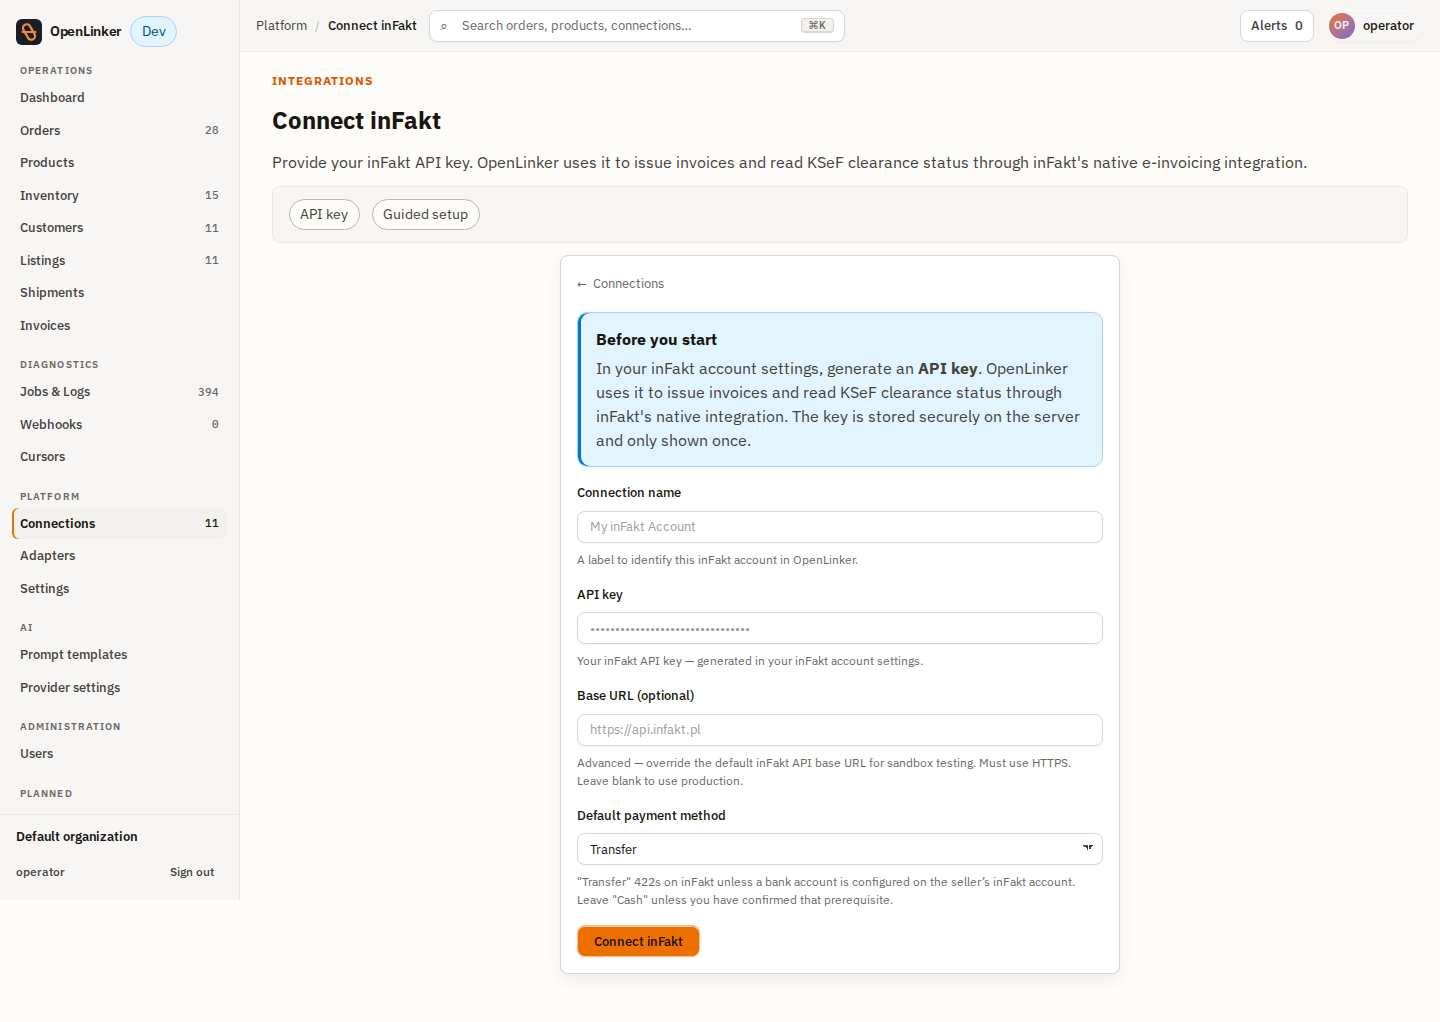
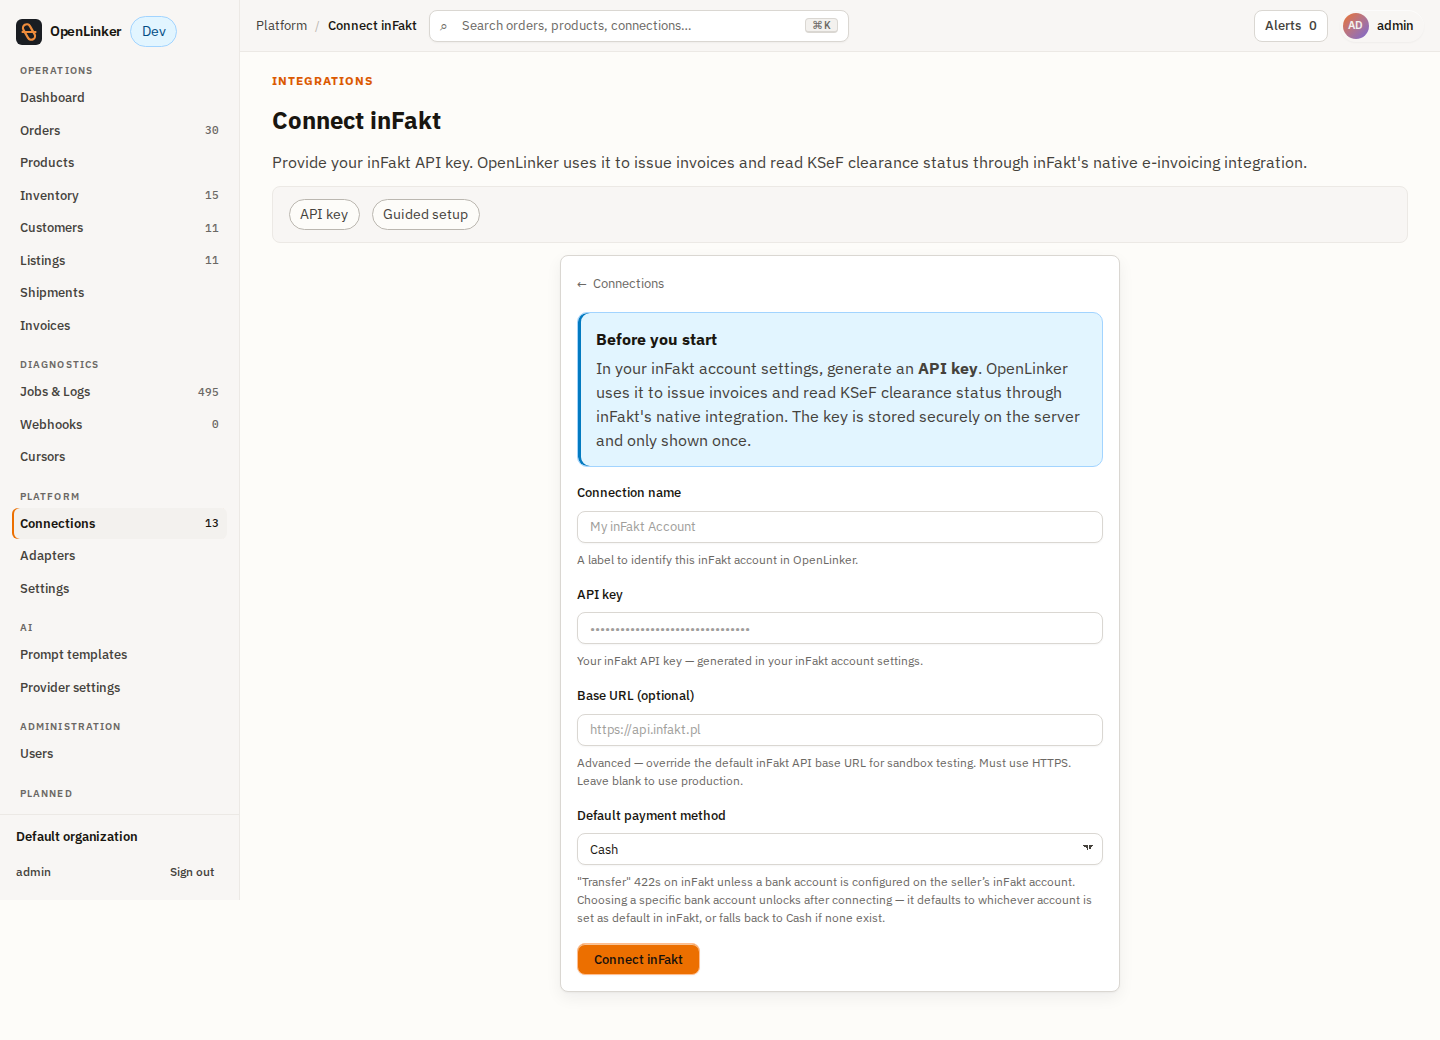
docs(infakt): payment method, bank-account picker, PDF download in setup guide
Live-E2E-verified against the inFakt sandbox (2026-07-03):
- section 1: Default payment method wizard field + Transfer bank-account
  behaviour (live picker on the Edit form, eager persist, inFakt default
  sync) with fresh wizard + edit-form screenshots
- section 3: Download the invoice PDF step (rendered PDF via
  RegulatoryDocumentReader, #1321)
- corrections: issuance-time line snapshot note (#1297)
- README: BankAccountsReader / BankAccountDefaultSetter /
  RegulatoryDocumentReader notes + implementation details
- capability-panel screenshot (post-#1320)

diff --git a/docs/integrations/infakt/setup-guide.md b/docs/integrations/infakt/setup-guide.md
@@ -20,6 +20,12 @@ full rationale behind that design.
 | `Invoicing` (`issueInvoice` / `getInvoice` / `upsertCustomer` / `getSupportedDocumentTypes`) | ✅ | Document types: `invoice`, `corrected`, `proforma`, `prepayment`. |
 | `RegulatoryStatusReader` (`getClearanceStatus`) | ✅ | Reads `ksef_data.status` off the stored invoice. **Not** `RegulatoryTransmitter` — inFakt submits to KSeF itself; OL has no submit primitive to call. |
 | `CorrectionIssuer` (`issueCorrection`) | ✅ | Issues a `corrective` invoice against `POST /invoices.json` with a before/after line-pair payload. |
+| `BankAccountsReader` (`listBankAccounts`) + `BankAccountDefaultSetter` (`setDefaultBankAccount`) | ✅ | Backs the live bank-account picker for `Transfer` invoices - accounts are fetched from `GET /bank_accounts.json`, and the picked account is synced back as the inFakt default. |
+| `RegulatoryDocumentReader` (`getRegulatoryDocument`, kind `rendered`) | ✅ | Fetches the inFakt-rendered invoice PDF - powers the **Download PDF** button on the invoice detail page. |
+
+The connection detail page shows the enabled capability roles for the connection:
+
+![inFakt capability panel](../../../libs/integrations/infakt/docs/assets/19-infakt-capability-panel.png)
 
 - **adapterKey:** `infakt.accounting.v1`
 - **platformType:** `infakt`
@@ -56,10 +62,19 @@ The guided wizard (`/connections/new/infakt`) collects:
 | Connection name | ✅ | A label to identify this inFakt account in OpenLinker. |
 | API key | ✅ | The credential from [Prerequisites](#prerequisites). Stored encrypted server-side; never echoed back to the browser after creation. |
 | Base URL (optional) | ❌ | Advanced override for sandbox testing. Must use HTTPS. Leave blank to use inFakt's production API. |
+| Default payment method | ❌ | `Cash` or `Transfer` - the `payment_method` stamped on every invoice issued through this connection. Leave it untouched to fall back to `Cash`. `Transfer` is rejected (422) by inFakt unless a bank account is configured on the seller's inFakt account. |
 
 ![inFakt wizard, empty](../../../libs/integrations/infakt/docs/assets/01-infakt-wizard-empty.png)
 
 ![inFakt wizard, filled in](../../../libs/integrations/infakt/docs/assets/02-infakt-wizard-filled.png)
+
+When **Transfer** is selected, the connection also carries a **bank account for
+Transfer invoices**. The picker for a specific account unlocks once the connection
+exists (the API key is needed to query inFakt): OL fetches the account list live from
+inFakt and defaults to whichever account is marked default there, falling back to
+`Cash` if the inFakt account has no bank accounts at all. The issued document really
+carries this configuration - invoices land in inFakt with `payment_method: transfer`
+and the picked account's number and bank name.
 
 After submitting, the connection is created and a **Test connection** affordance
 appears — use it to confirm the API key is valid before relying on the connection.
@@ -69,6 +84,17 @@ appears — use it to confirm the API key is valid before relying on the connect
 ![Connection test passed](../../../libs/integrations/infakt/docs/assets/04-infakt-connection-test-ok.png)
 
 ![Connections list with inFakt](../../../libs/integrations/infakt/docs/assets/05-connections-list-with-infakt.png)
+
+Both payment fields stay editable after creation. On the connection **Edit** form,
+the **Payment method for invoice** disclosure exposes the same **Default payment
+method** select plus a **Bank account for Transfer invoices** picker populated live
+from inFakt. Picking a different account persists it eagerly and syncs it back as the
+default account in inFakt, so the connection config and the inFakt account never
+drift apart.
+
+![Edit form, payment method disclosure](../../../libs/integrations/infakt/docs/assets/06-infakt-edit-payment-section.png)
+
+![Edit form, changed bank account persisted](../../../libs/integrations/infakt/docs/assets/07-infakt-edit-bank-persisted.png)
 
 ---
 
@@ -139,10 +165,19 @@ auto-provisioning). Set it up manually:
 
    ![Invoice detail page](../../../libs/integrations/infakt/docs/assets/13-invoice-detail-page.png)
 
+6. Download the invoice PDF. On the accepted invoice detail page, the **Download
+   PDF** button in the KSeF clearance panel fetches the invoice as rendered by
+   inFakt.
+
+   ![Download PDF on the accepted invoice](../../../libs/integrations/infakt/docs/assets/18-invoice-pdf-download.png)
+
 ### Correcting an invoice
 
 Use **Issue correction** on an already-issued invoice to file a `corrective` document.
-Pick the line(s) to correct and the new quantity/price.
+Pick the line(s) to correct and the new quantity/price. Correction deltas diff
+against the invoice lines as issued (the issuance-time snapshot persisted with the
+invoice record, #1297), not against the order's current state - editing the order
+after issuance does not shift the correction baseline.
 
 ![Correction dialog, empty](../../../libs/integrations/infakt/docs/assets/14-correction-modal-empty.png)
 

diff --git a/libs/integrations/infakt/README.md b/libs/integrations/infakt/README.md
@@ -15,7 +15,7 @@ KSeF clearance-status reads through inFakt's own native KSeF integration.
 
 | Capability | Key sub-capabilities |
 |---|---|
-| `Invoicing` | `InvoicingPort` (`issueInvoice`, `getInvoice`, `upsertCustomer`, `getSupportedDocumentTypes`), `RegulatoryStatusReader` (`getClearanceStatus`), `CorrectionIssuer` (`issueCorrection`) |
+| `Invoicing` | `InvoicingPort` (`issueInvoice`, `getInvoice`, `upsertCustomer`, `getSupportedDocumentTypes`), `RegulatoryStatusReader` (`getClearanceStatus`), `CorrectionIssuer` (`issueCorrection`), `BankAccountsReader` (`listBankAccounts`), `BankAccountDefaultSetter` (`setDefaultBankAccount`), `RegulatoryDocumentReader` (`getRegulatoryDocument`, kind `rendered`) |
 
 `RegulatoryTransmitter` is deliberately **not** implemented — see
 [ADR-030](../../../docs/architecture/adrs/030-infakt-ksef-indirection.md). inFakt
@@ -59,6 +59,18 @@ Authentication uses a **static API key** (no OAuth).
 - **Corrections**: `issueCorrection` fetches the original invoice, then submits a
   `corrective` document carrying a before/after row pair per corrected line
   (`correction: false` / `correction: true`).
+- **Per-connection default payment method** (#1309): `config.defaultPaymentMethod`
+  (`cash | transfer`) is stamped as `payment_method` on every issued document;
+  unset falls back to `cash`. `transfer` 422s on inFakt unless the seller's account
+  has a bank account configured.
+- **Bank-account picker with live inFakt default sync** (#1310): `BankAccountsReader.
+  listBankAccounts()` (`GET /bank_accounts.json`) feeds the wizard and edit-form
+  picker; the picked account is snapshotted into `config.bankAccount` and pushed back
+  as the inFakt default via `BankAccountDefaultSetter.setDefaultBankAccount()`.
+  `transfer` invoices carry the snapshot's `bank_account` / `bank_name` fields.
+- **Rendered-PDF download** (#1321): `RegulatoryDocumentReader.getRegulatoryDocument
+  (record, 'rendered')` fetches the invoice PDF as rendered by inFakt - this backs
+  the **Download PDF** button on the accepted invoice detail page.
 - **Inbound webhooks**: `InfaktWebhookTranslator` verifies
   `X-Infakt-Signature` (HMAC-SHA256 over the raw body) and handles inFakt's
   subscription-verification handshake (`{"verification_code": "..."}` echo). Only